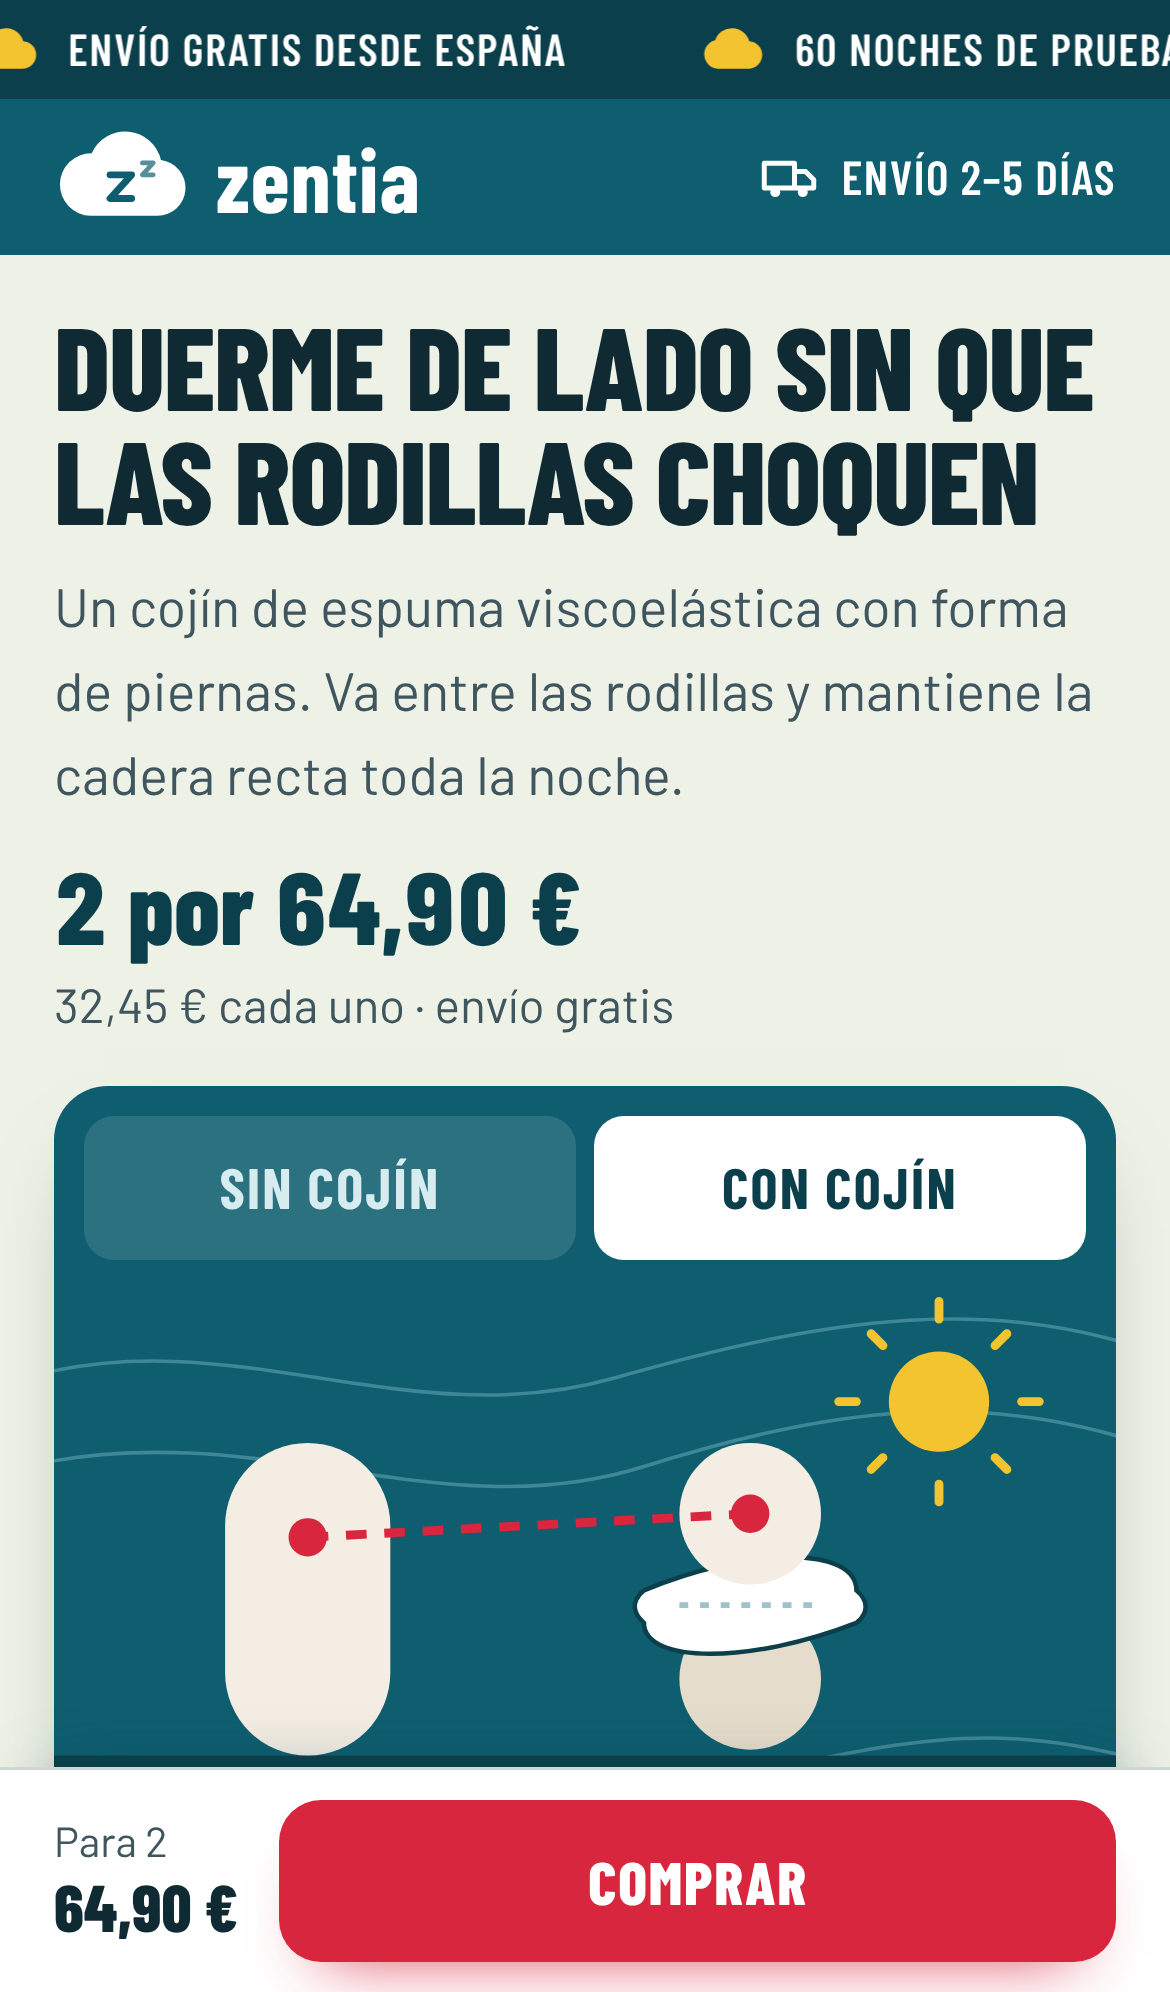
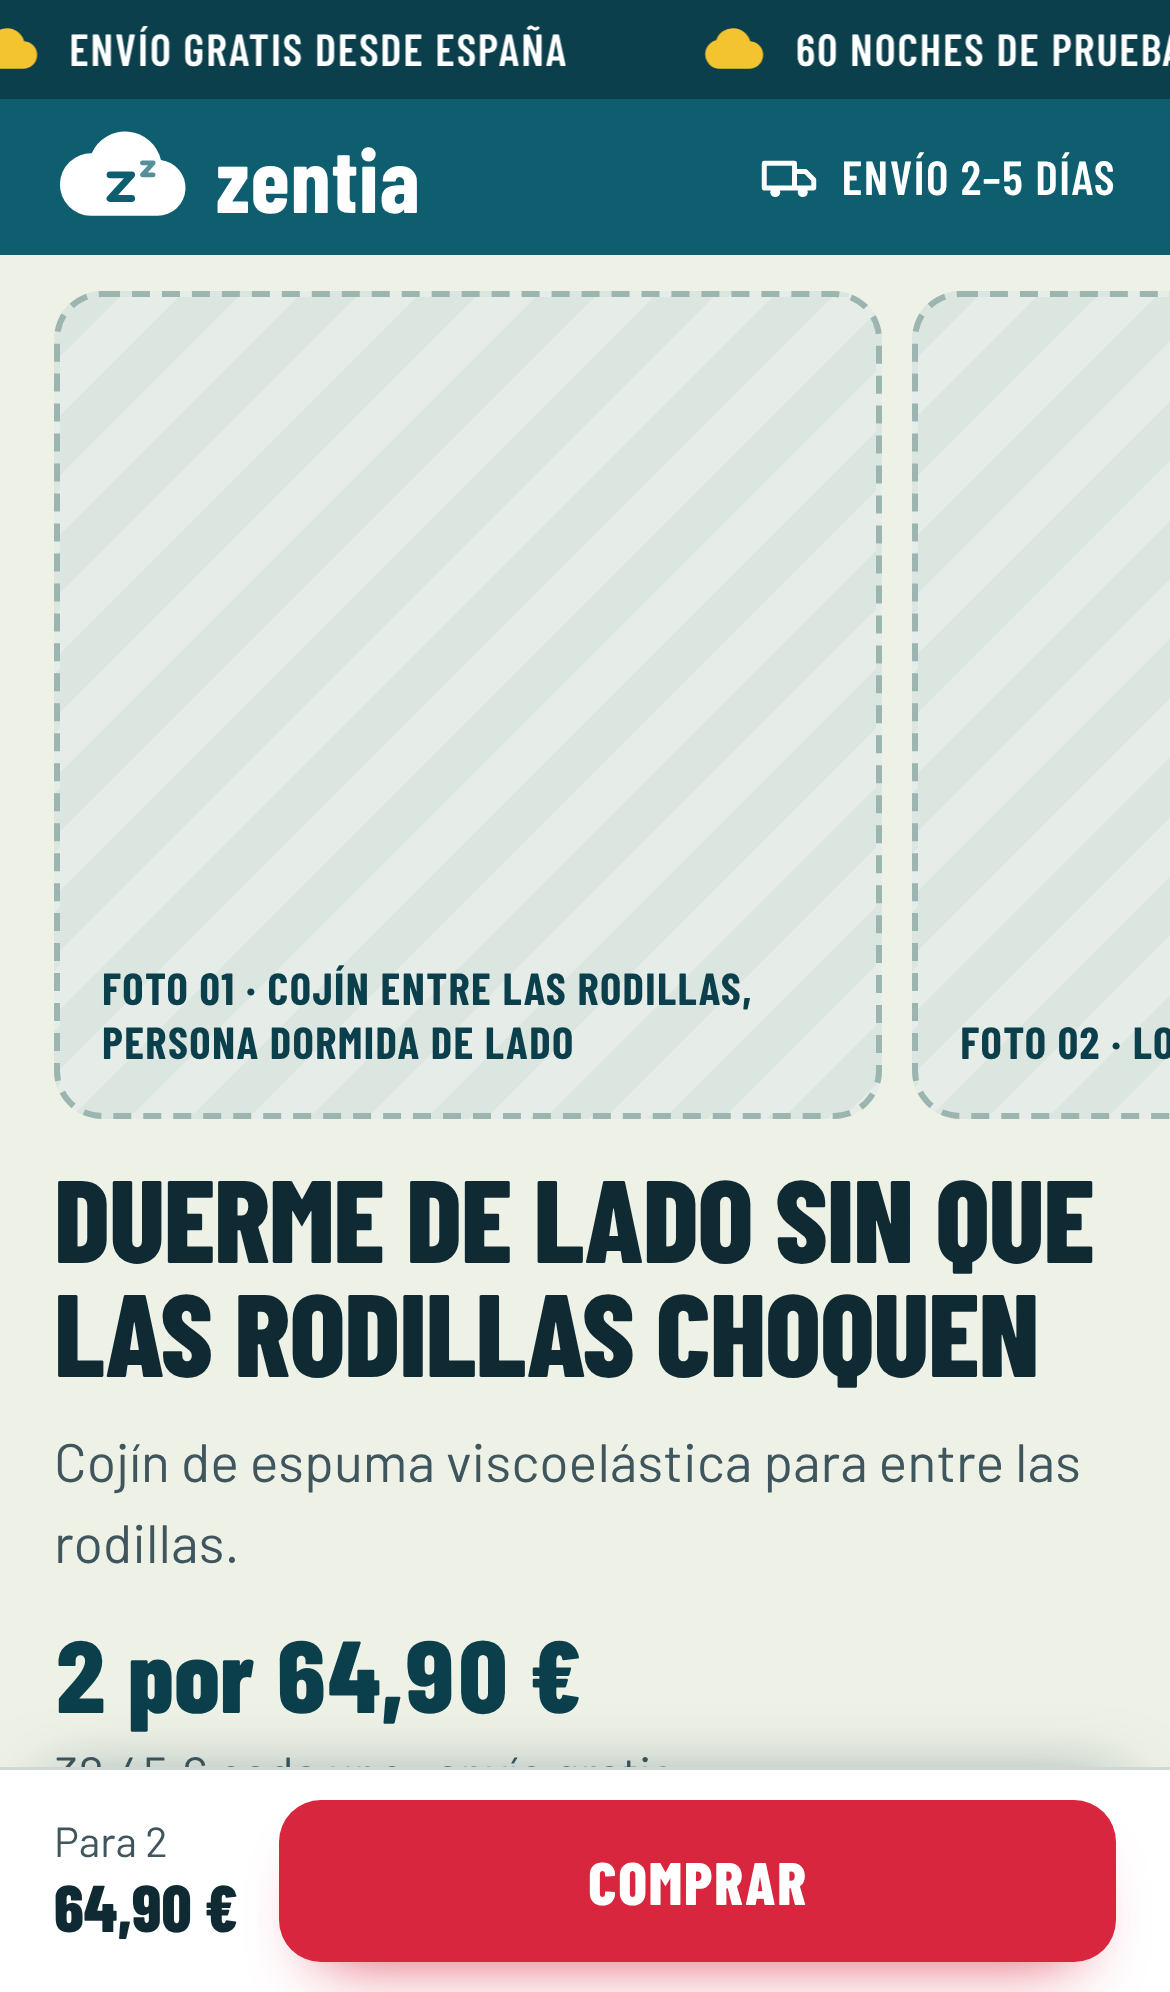
Zentia: ficha con huecos de imagen y menos texto; prompts de Gemini
Claude-Session: https://claude.ai/code/session_019387DrngtiV1uvr97kRYkF

diff --git a/zentia-theme/assets/zn.css b/zentia-theme/assets/zn.css
@@ -163,3 +163,41 @@ body.zn{margin:0;background:var(--zn-tierra);color:var(--zn-tinta);font:400 18px
 #shopify-pc__banner #shopify-pc__banner__btn-decline{order:2;background:#fff!important;color:var(--zn-mar)!important;border:1px solid var(--zn-mar)!important}
 #shopify-pc__banner #shopify-pc__banner__btn-manage-prefs{order:3;flex:1 0 100%!important;min-height:22px!important;padding:0!important;border:0!important;background:none!important;color:var(--zn-gris)!important;font-size:13px!important;text-decoration:underline!important}
 .shopify-pc__banner__overlay{display:none!important}
+
+/* v2: huecos de imagen y menos texto */
+.zn-slot{display:flex;align-items:flex-end;width:100%;border-radius:16px;padding:14px;background:repeating-linear-gradient(135deg,#DCE6E0 0 14px,#E6EDE8 14px 28px);border:2px dashed #9DB5B0;color:var(--zn-mar-osc);font:700 15px/1.25 var(--zn-tv);letter-spacing:.03em;text-transform:uppercase}
+.zn-gal{display:flex;gap:10px;overflow-x:auto;scroll-snap-type:x mandatory;scrollbar-width:none;margin-inline:calc(-1*max(18px,env(safe-area-inset-left,0px)));padding-inline:max(18px,env(safe-area-inset-left,0px))}
+.zn-gal::-webkit-scrollbar{display:none}
+.zn-gal>*{flex:0 0 86%;scroll-snap-align:center;border-radius:16px;aspect-ratio:4/5;object-fit:cover}
+.zn-hero{grid-template-columns:minmax(0,1fr)}
+.zn-pair{display:grid;grid-template-columns:1fr 1fr;gap:10px}
+.zn-pair figure{margin:0;position:relative}
+.zn-pair__img{width:100%;border-radius:14px;aspect-ratio:1/1;object-fit:cover}
+.zn-tag{position:absolute;left:8px;top:8px;font:800 15px/1 var(--zn-tv);letter-spacing:.05em;text-transform:uppercase;padding:7px 10px;border-radius:999px}
+.zn-tag--rain{background:var(--zn-mar-osc);color:#fff}
+.zn-tag--sun{background:var(--zn-sol);color:var(--zn-tinta)}
+.zn-forecast{margin:12px 0 0;background:var(--zn-sol);border-radius:12px;padding:12px 14px;font:600 19px/1.3 var(--zn-tv)}
+.zn-forecast b{font-weight:800;text-transform:uppercase}
+.zn-split{display:grid;gap:18px;align-items:center}
+.zn-split__img{width:100%;border-radius:16px;object-fit:cover}
+.zn-short{margin:0 0 6px;color:var(--zn-gris);font-size:18px}
+.zn-steps{grid-template-columns:repeat(3,minmax(0,1fr));gap:10px}
+.zn-steps li{display:grid;grid-template-columns:1fr;gap:8px;align-items:start;font:700 17px/1.2 var(--zn-tv);text-transform:uppercase;letter-spacing:.02em;position:relative}
+.zn-steps li::before{position:absolute;left:6px;top:6px;width:32px;height:32px;font-size:18px;line-height:32px;z-index:1}
+.zn-steps__img{width:100%;border-radius:12px;aspect-ratio:1/1;object-fit:cover}
+.zn-steps .zn-slot{font-size:12px;padding:8px}
+.zn-vs{list-style:none;margin:0;padding:0;display:grid;gap:10px}
+.zn-vs li{display:grid;grid-template-columns:1fr 1fr;gap:10px;align-items:center;background:#fff;border-radius:12px;padding:12px 14px;font-weight:600}
+.zn-band .zn-vs li{background:var(--zn-tierra)}
+.zn-vs s{color:#7A8B90;font-weight:500;text-decoration-color:var(--zn-frente);text-decoration-thickness:2px}
+.zn-vs span{color:var(--zn-mar-osc)}
+.zn-guar{padding-block:34px;background:var(--zn-tierra)}
+.zn-empty{margin-top:18px}
+@media (min-width:900px){
+  .zn-hero{grid-template-columns:1.05fr 1fr;align-items:center}
+  .zn-gal{margin:0;padding:0}
+  .zn-gal>*{flex-basis:100%}
+  .zn-split{grid-template-columns:1fr 1fr;gap:36px}
+  .zn-split--rev>:first-child{order:2}
+}
+@media (max-width:899px){.zn-gal>*{flex-basis:78%;aspect-ratio:1/1}.zn-gal .zn-slot{aspect-ratio:1/1!important}.zn-hero{padding-top:12px}}

diff --git a/PROMPTS_ZENTIA.md b/PROMPTS_ZENTIA.md
@@ -1,0 +1,32 @@
+# Zentia · prompts de imágenes (Gemini) · 17-nov-2026
+
+**Antes de empezar:**
+- Adjunta siempre la foto real del cojín como referencia: la de tu muestra o, mientras llega, la de ELORIA. El cojín tiene que salir **idéntico**: forma, malla y color.
+- Sin texto en la imagen salvo donde se indica.
+- Las personas creadas con IA no se presentan como clientes. Mejor planos de piernas o de espaldas, sin caras.
+- Si la imagen es fotorrealista con personas, valora añadir «Imagen creada con IA» en pequeño (Ley de IA, art. 50).
+
+**Estilo común** (pégalo al final de cada prompt):
+> Fotografía realista, luz natural de mañana suave, dormitorio español sencillo y luminoso, sábanas blancas y grises, tonos verde azulado suave (#0E5E6F) y amarillo cálido (#F4C430) como acentos, sin logotipos ni marcas, sin texto.
+
+## Dónde va cada foto
+- **01, 02 y 03:** súbelas al producto (Productos → Kit Dormir de Lado → Multimedia). Forman la galería de arriba.
+- **04 a 11:** en el tema, Personalizar → ficha «Zentia · ficha descanso», en los huecos que llevan el mismo número.
+
+| # | Formato | Prompt |
+|---|---|---|
+| 01 Portada | 1:1 | Vista lateral de una persona adulta durmiendo de lado en una cama, solo de cintura a pies, con este cojín blanco de espuma entre las rodillas. Las rodillas quedan separadas y las piernas paralelas. Plano limpio y tranquilo. |
+| 02 Pack de 2 | 1:1 | Dos cojines idénticos a la referencia, colocados sobre una cama hecha con sábanas blancas, vistos desde arriba en diagonal. Uno para cada lado de la cama. |
+| 03 Detalle | 1:1 | Primer plano macro de este cojín: la forma curva para las piernas y la textura de la funda de malla. Una mano lo aprieta un poco para que se vea la espuma. |
+| 04 Sin cojín | 1:1 | Vista desde los pies de la cama de una persona durmiendo de lado SIN cojín: la rodilla de arriba cae sobre la de abajo y la cadera gira. Tonos algo más fríos y apagados. Añade una flecha roja fina que marque la inclinación de la cadera. |
+| 05 Con cojín | 1:1 | La misma escena y el mismo encuadre que la 04, pero CON el cojín entre las rodillas: piernas paralelas y cadera recta. Luz cálida. Línea amarilla fina horizontal a la altura de la cadera. |
+| 06 El problema | 4:3 | Al amanecer, una almohada normal caída en el suelo junto a la cama y una persona dormida de lado al fondo, desenfocada. |
+| 07 Paso 1 | 1:1 | Persona tumbándose de lado en la cama, solo cuerpo, ropa de dormir sencilla. |
+| 08 Paso 2 | 1:1 | Manos colocando este cojín entre las rodillas de una persona tumbada de lado. Plano cerrado. |
+| 09 Paso 3 | 1:1 | Persona dormida de lado, tapada con el edredón, con el cojín entre las rodillas. Habitación en penumbra con luz cálida de mesita. |
+| 10 Regalo | 4:5 | Caja de cartón kraft abierta con este cojín dentro, lazo verde azulado y una tarjeta escrita a mano que dice «Para papá y mamá». Encima de una mesa con un poco de decoración navideña discreta. |
+| 11 Comparación | 4:3 | A la izquierda, una almohada normal aplastada y doblada. A la derecha, este cojín con su forma intacta. Fondo neutro claro, luz de estudio suave, misma altura de cámara. |
+
+## Para los anuncios (después)
+- Las mismas 04 y 05 juntas en vertical (9:16): arriba «Sin cojín», abajo «Con cojín».
+- La 10 con el texto «Llega antes de Nochebuena · pide antes del 15-dic».

diff --git a/CLAUDE.md b/CLAUDE.md
@@ -47,6 +47,7 @@
 - Campaña: Configuración del tema → Maison Nácar → «Campaña activa». Reseñas: interruptor «Mostrar reseñas y estrellas» (sección «Opiniones»). Enlace de anuncio: `/products/<collar>?pack=3`. Página `/pages/3x2` = «Tu estuche».
 - Huecos de foto numerados («Foto 01»…); los prompts están en `PROMPTS_FOTOS_TIENDA_V20.md`. En productos: `#portada` sale primero y `#puesto` va a «Así queda puesto».
 - Ojo: Shopify rechaza las secciones con `"default": ""` en un ajuste de texto (y, en cascada, las plantillas que las usan).
+- Ojo (17-nov): una sección con ajustes `"type": "header"` fue rechazada en silencio por `themeFilesUpsert` (userErrors vacío, el archivo no cambia). Comprobar siempre `updatedAt` del archivo tras subirlo.
 - Para subir cambios:
   1. Hacer un zip de `theme/`.
   2. `stagedUploadsCreate` (archivo; el campo del archivo va al final del curl).
